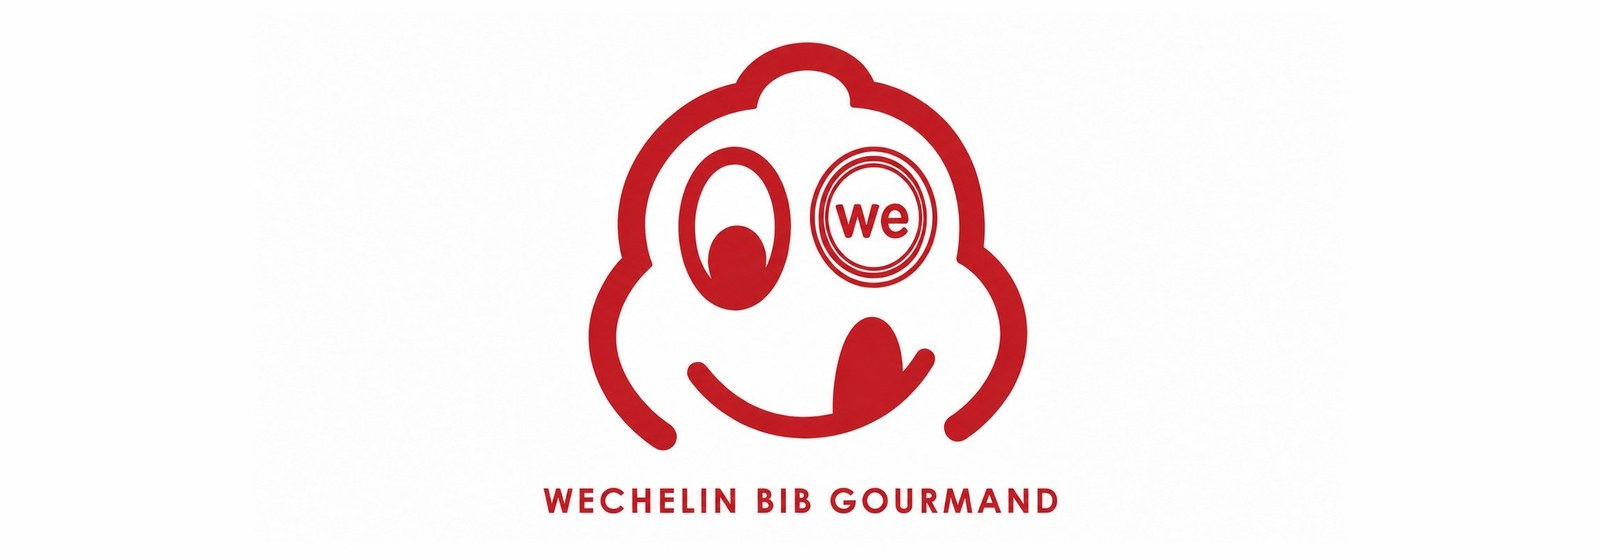
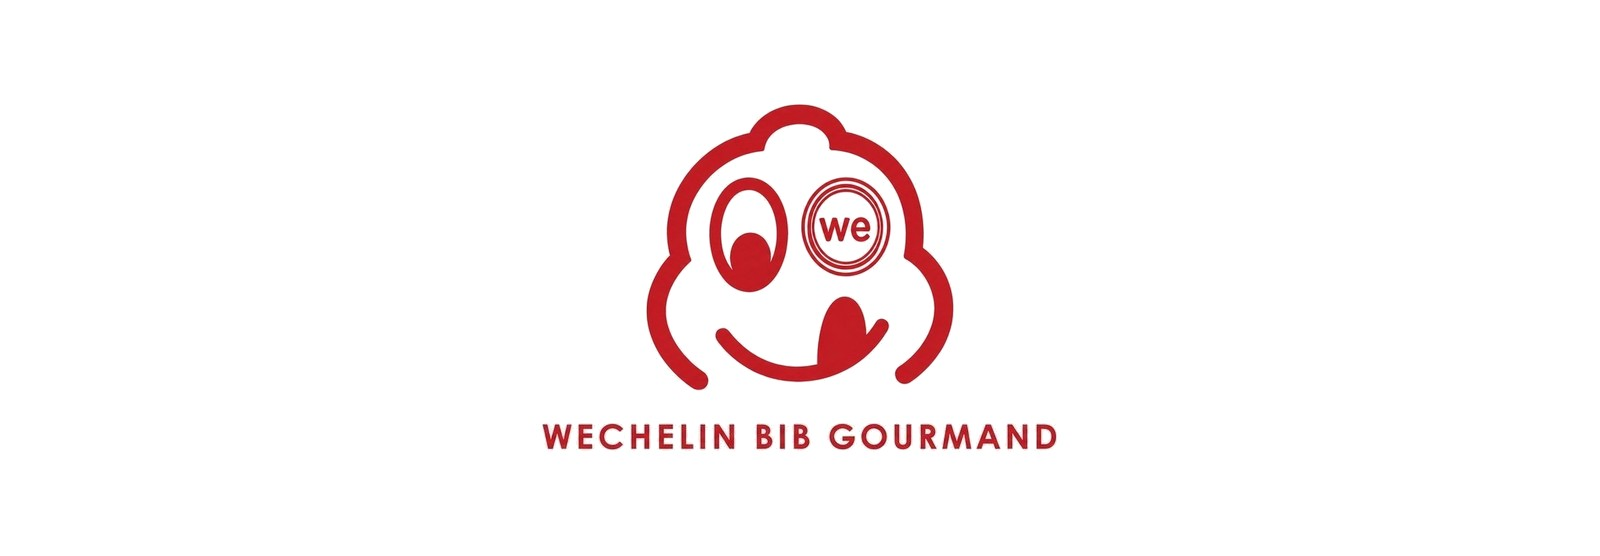
We슐랭: 배너 캐릭터 얼굴만 70%로 (글씨·배너 크기 그대로), 파일 이름 바꿔 예전 그림이 남아 보이지 않게

Changed region(s): [[0.3125, 0.0612, 0.6875, 0.8255], [0.3438, 0.8561, 0.6875, 0.9478]]

diff --git a/src/app/we-slang/page.tsx b/src/app/we-slang/page.tsx
@@ -17,7 +17,7 @@ export default function WeSlangPage() {
           <div className="w-full max-w-[720px] mx-auto aspect-[16/3] mb-4 bg-[#b71f2f] rounded-2xl overflow-hidden">
             <img src="/weslang/wechelin-icon.png" alt="" aria-hidden className="block h-full w-auto mx-auto" />
           </div>
-          <img src="/weslang/wechelin-banner.jpg" alt="WECHELIN BIB GOURMAND — 센터 근처 맛있는 가게" className="block w-full max-w-[720px] mx-auto rounded-2xl shadow-[0_2px_6px_rgba(0,0,0,0.06),0_10px_24px_rgba(0,0,0,0.05)]" />
+          <img src="/weslang/wechelin-bib.jpg" alt="WECHELIN BIB GOURMAND — 센터 근처 맛있는 가게" className="block w-full max-w-[720px] mx-auto rounded-2xl shadow-[0_2px_6px_rgba(0,0,0,0.06),0_10px_24px_rgba(0,0,0,0.05)]" />
         </div>
         <div className="px-4">
           <PostBoard category="weslang" basePath="/we-slang" variant="weslang" />
